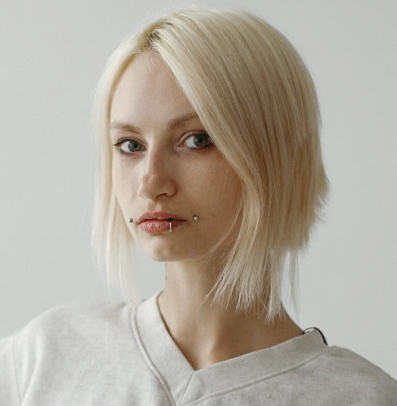
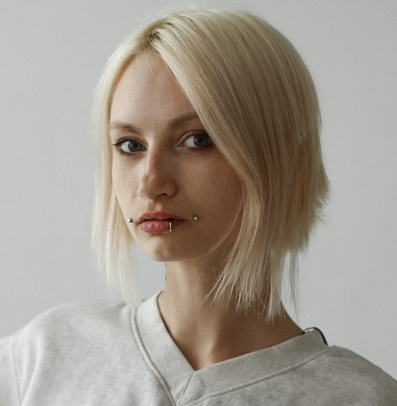
переносы

diff --git a/index.html b/index.html
@@ -869,7 +869,7 @@
                 <div class="hero-title-wrapper">
                     <h1 class="fade-in">Продающие карточки товаров<br>для маркетплейсов</h1>
                 </div>
-                <p class="hero-subtitle fade-in">Разработка дизайна карточек товаров<br>с инфографикой под ключ: от анализа конкурентов<br>до готовых карточек на WB и Ozon</p>
+                <p class="hero-subtitle fade-in">Разработка дизайна карточек товаров<br>с инфографикой под ключ: от анализа<br>конкурентовдо готовых карточек</p>
                 <div class="hero-buttons-row fade-in">
                     <a href="#cases" class="btn btn-outline">Портфолио</a>
                     <a href="#pricing" class="btn btn-outline">Прайс</a>
@@ -886,7 +886,7 @@
                 <h2 class="fade-in">Кейсы и примеры работ</h2>
                 
                 <div class="case-item fade-in">
-                    <p class="case-task"><strong>Задача:</strong> Выделить карточку Омега-3 среди конкурентов, объяснить ценность сложного продукта за 3 секунды и снять страхи покупателей о качестве</p>
+                    <p class="case-task"><strong>Задача:</strong> Выделить карточку Омега-3 среди конкурентов, объяснить ценность сложного продукта<br>за 3 секунды и снять страхи покупателей о качестве</p>
                     
                     <div class="case-cover" data-lightbox="case1" data-src="images/case1-cover.jpg">
                         <img src="images/case1-cover.jpg" alt="Omega-3 + D3 обложка" loading="lazy">
